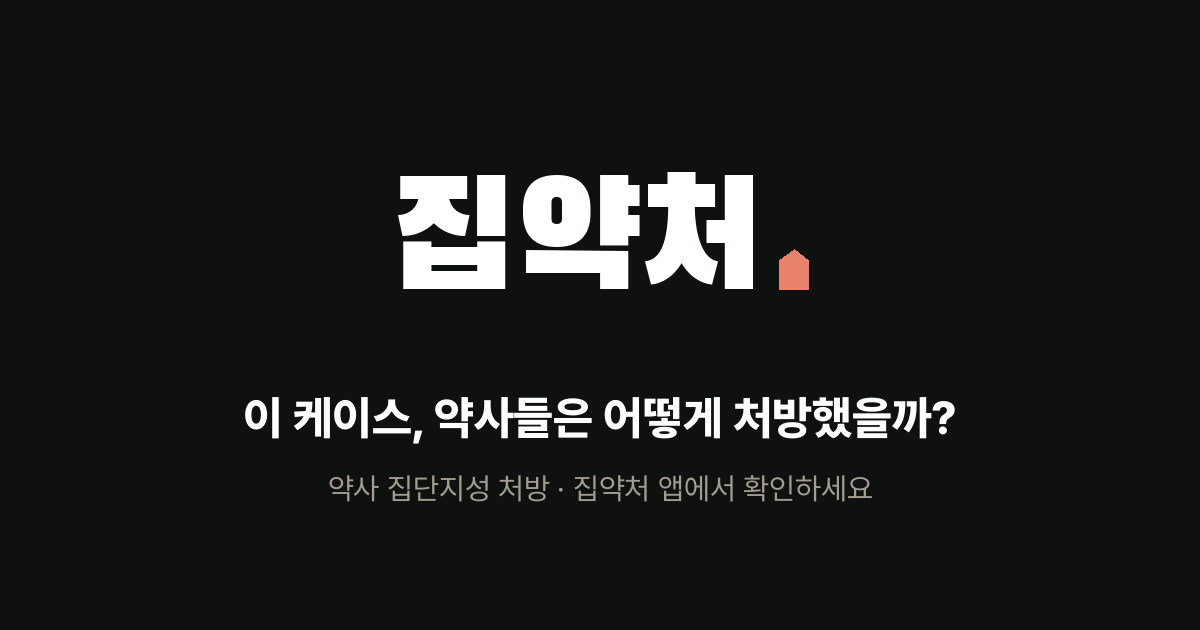
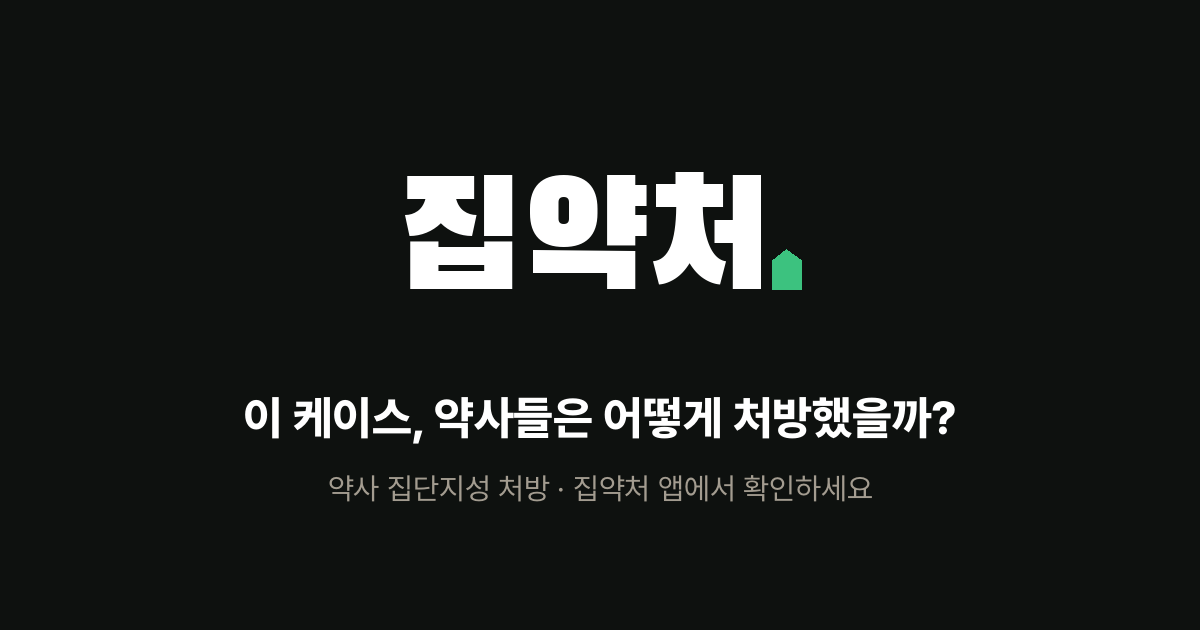
Add files via upload

Changed region(s): [[0.3083, 0.2714, 0.6783, 0.4825], [0.3083, 0.2714, 0.3392, 0.3016]]

diff --git a/c/index.html b/c/index.html
@@ -26,8 +26,9 @@
        min-height:100vh;display:flex;justify-content:center;padding:calc(16px + env(safe-area-inset-top)) 16px calc(28px + env(safe-area-inset-bottom))}
   main{width:100%;max-width:420px;display:flex;flex-direction:column;gap:16px}
   .logo{align-self:center;display:flex;align-items:flex-end;font-family:"Black Han Sans",sans-serif;font-size:30px;line-height:1;letter-spacing:-.02em;color:#fff;text-decoration:none;padding:7px 0}
-  /* 명함과 같은 집 — 글자 높이 1/3쯤, 기준선(글자 칸 아래 0.21em)에 붙음 */
-  .logo svg{margin:0 0 6.3px 3.5px}
+  /* 명함과 같은 집 — 글자 높이 1/3쯤, 기준선(글자 칸 아래 0.21em)에 붙음
+     간격: '처' 오른쪽 빈칸 0.06em + 글자 간격 -0.02em 을 감안해 1.2px → 눈에 보이는 간격 0.08em */
+  .logo svg{margin:0 0 6.3px 1.2px}
   /* 항상 9:16 — 화면이 낮으면 높이를 줄이고 폭도 같이 줄임 */
   .stage{position:relative;height:min(62vh,calc((min(100vw,420px) - 32px) * 16 / 9));aspect-ratio:9/16;border-radius:20px;overflow:hidden;background:#1B201D;align-self:center}
   .stage video{width:100%;height:100%;object-fit:cover;display:block}
@@ -46,7 +47,7 @@
 </head>
 <body>
 <main>
-  <a class="logo" href="/beta.html" aria-label="집약처">집약처<svg width="5.7" height="8" viewBox="0 0 10 14" aria-hidden="true"><polygon points="0,4 5,0 10,4 10,14 0,14" fill="#E8826A"/></svg></a>
+  <a class="logo" href="/beta.html" aria-label="집약처">집약처<svg width="5.7" height="8" viewBox="0 0 10 14" aria-hidden="true"><polygon points="0,4 5,0 10,4 10,14 0,14" fill="#3CC27F"/></svg></a>
 
   <div id="card" style="display:flex;justify-content:center" hidden>
     <div class="stage"><video id="vid" playsinline controls preload="metadata"></video></div>
